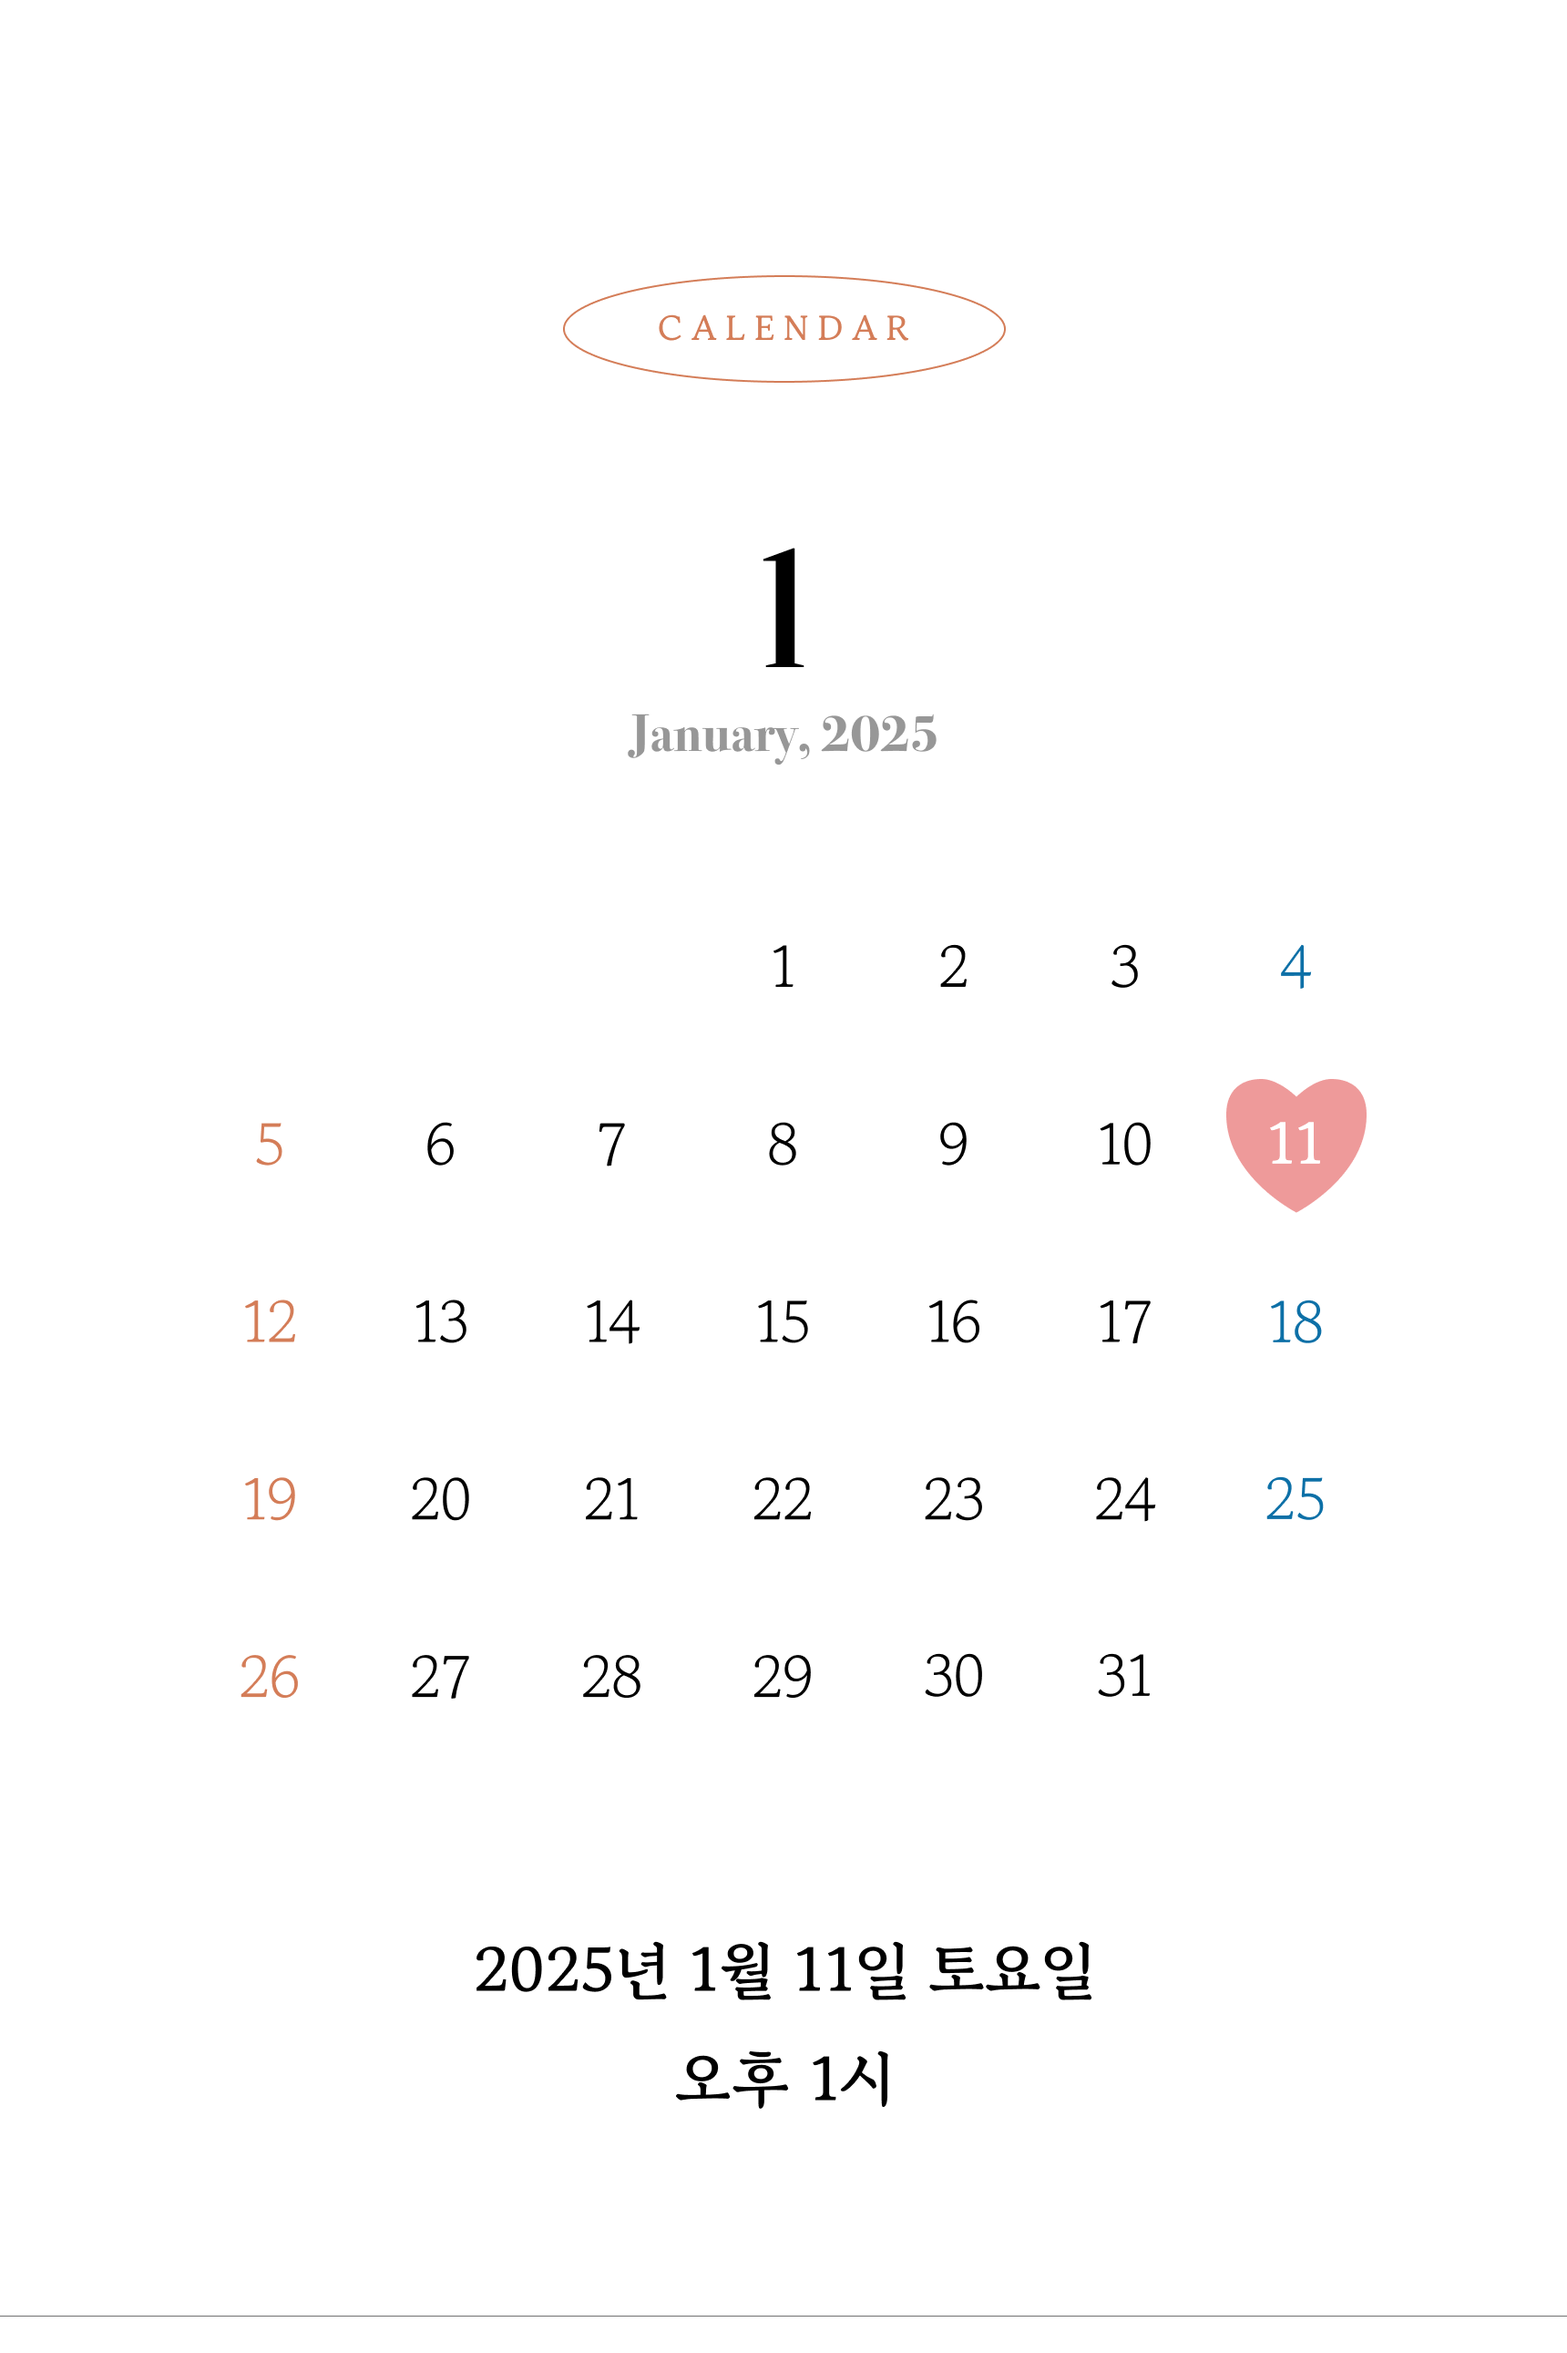
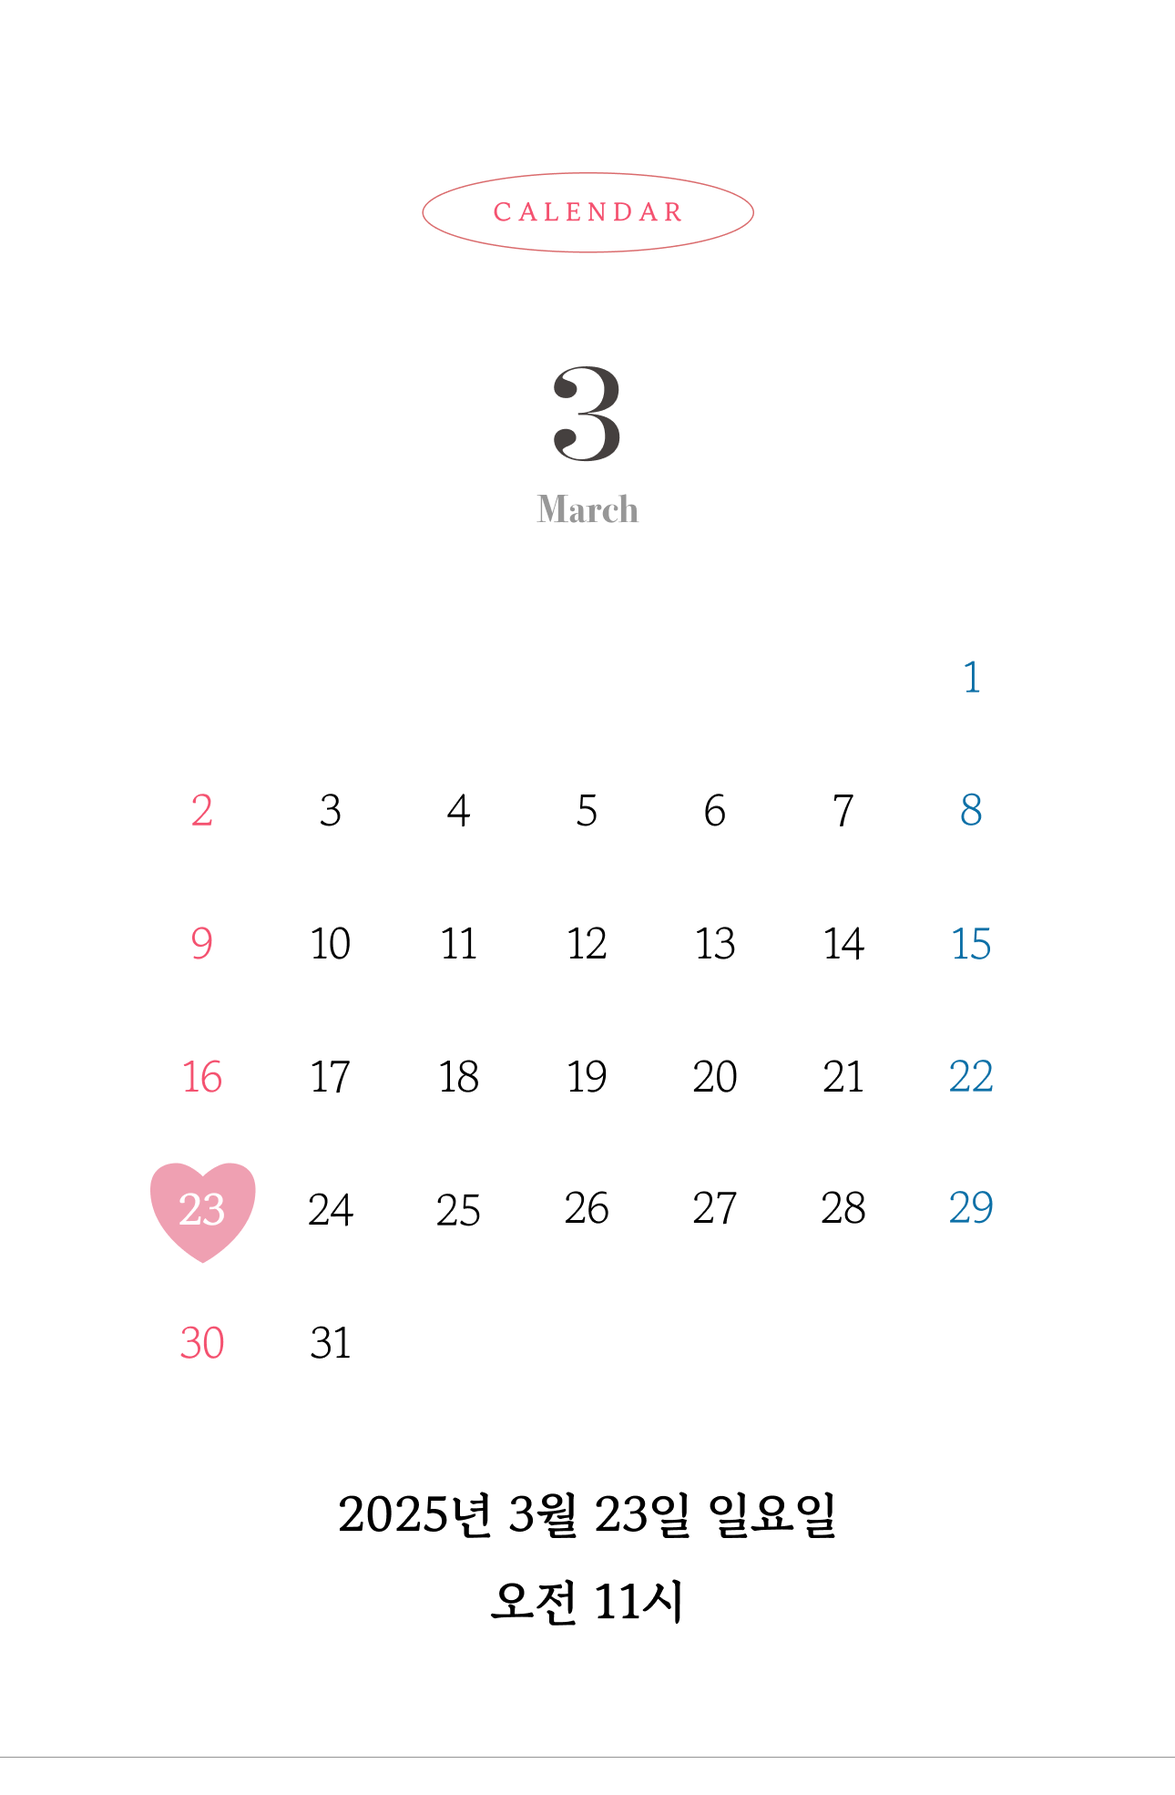
생성

diff --git a/gallery.js b/gallery.js
@@ -46,22 +46,22 @@ window.onload = () => {
     Kakao.Share.sendDefault({
       objectType: "feed",
       content: {
-        title: "김현진 ♥ 박혜성의 모바일 청첩장",
-        description: "2025년 1월 11일 토요일♡",
+        title: "김재범 ♥ 한소라의 모바일 청첩장",
+        description: "2025년 3월 23일 일요일♡",
         imageUrl: "https://i.imgur.com/bdEZl3S.png",
         imageWidth: 1200,
         imageHeight: 630,
         link: {
-          mobileWebUrl: "https://mo43.luvle.co.kr",
-          webUrl: "https://mo43.luvle.co.kr",
+          mobileWebUrl: "https://mo42.luvle.co.kr",
+          webUrl: "https://mo42.luvle.co.kr",
         },
       },
       buttons: [
         {
           title: "자세히 보기",
           link: {
-            mobileWebUrl: "https://mo43.luvle.co.kr",
-            webUrl: "https://mo43.luvle.co.kr",
+            mobileWebUrl: "https://mo42.luvle.co.kr",
+            webUrl: "https://mo42.luvle.co.kr",
           },
         },
       ],

diff --git a/newGallery.js b/newGallery.js
@@ -47,7 +47,7 @@ window.onload = () => {
       content: {
         title: "김재범 ♥ 한소라" 모바일 청첩장"
         description: "2025년 3월 23일 일요일♡",
-        imageUrl: "https://i.imgur.com/bdEZl3S.png",
+        imageUrl: "https://i.imgur.com/HaviTeo.png",
         imageWidth: 1200,
         imageHeight: 630,
         link: {
